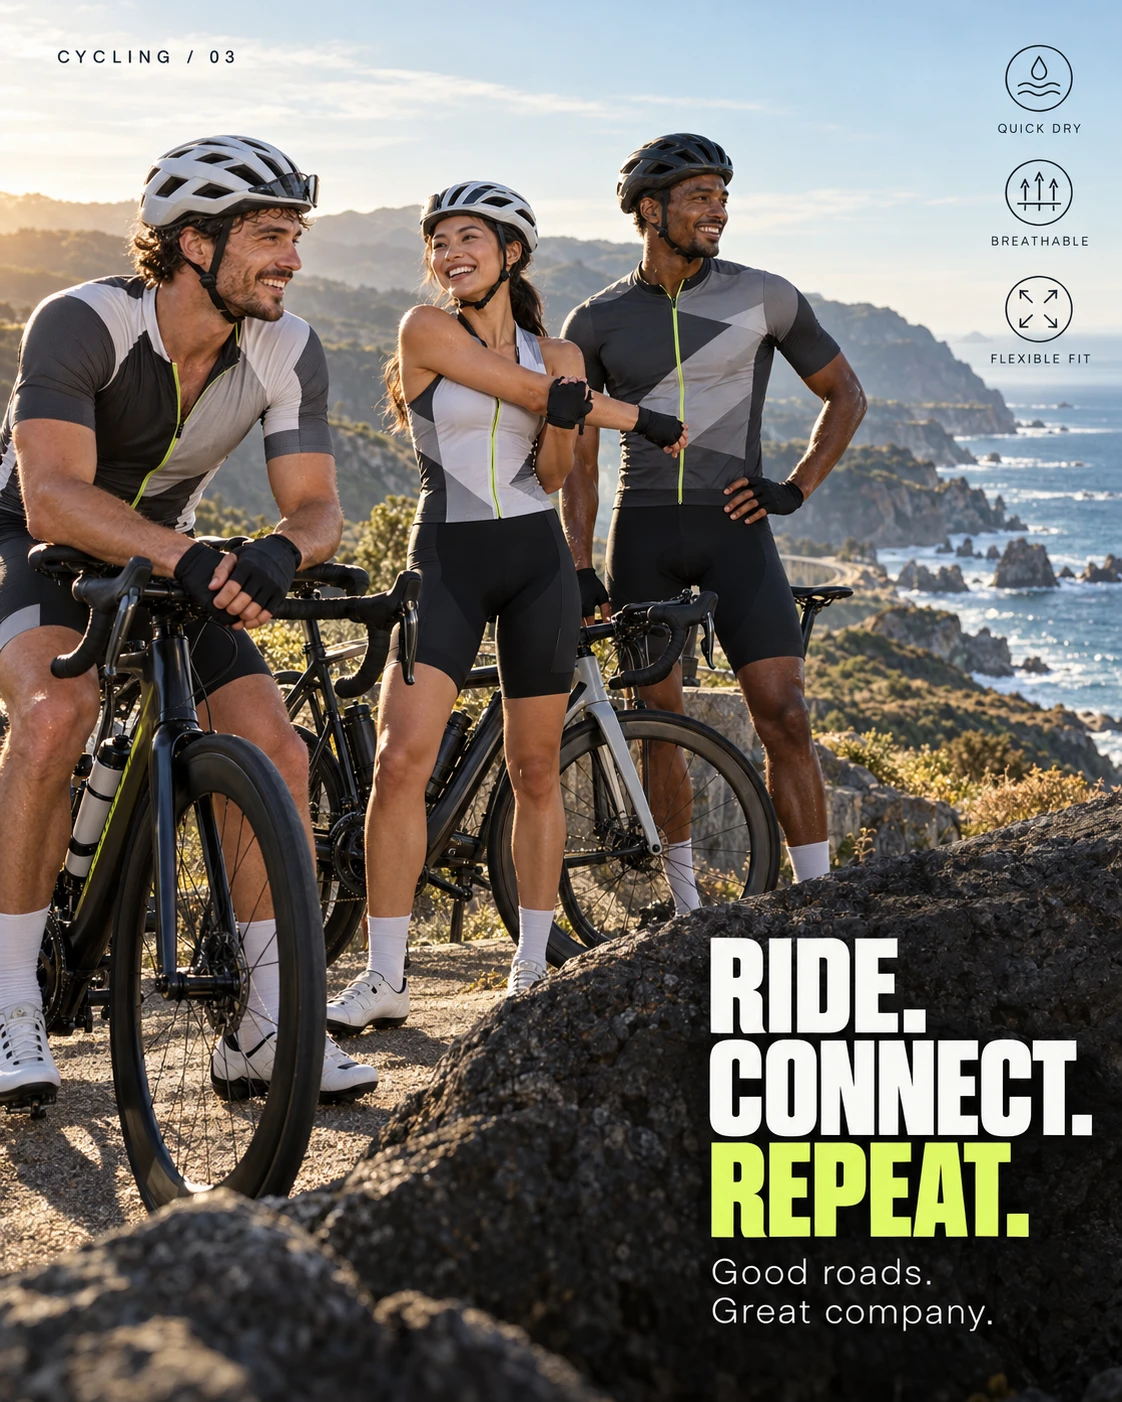
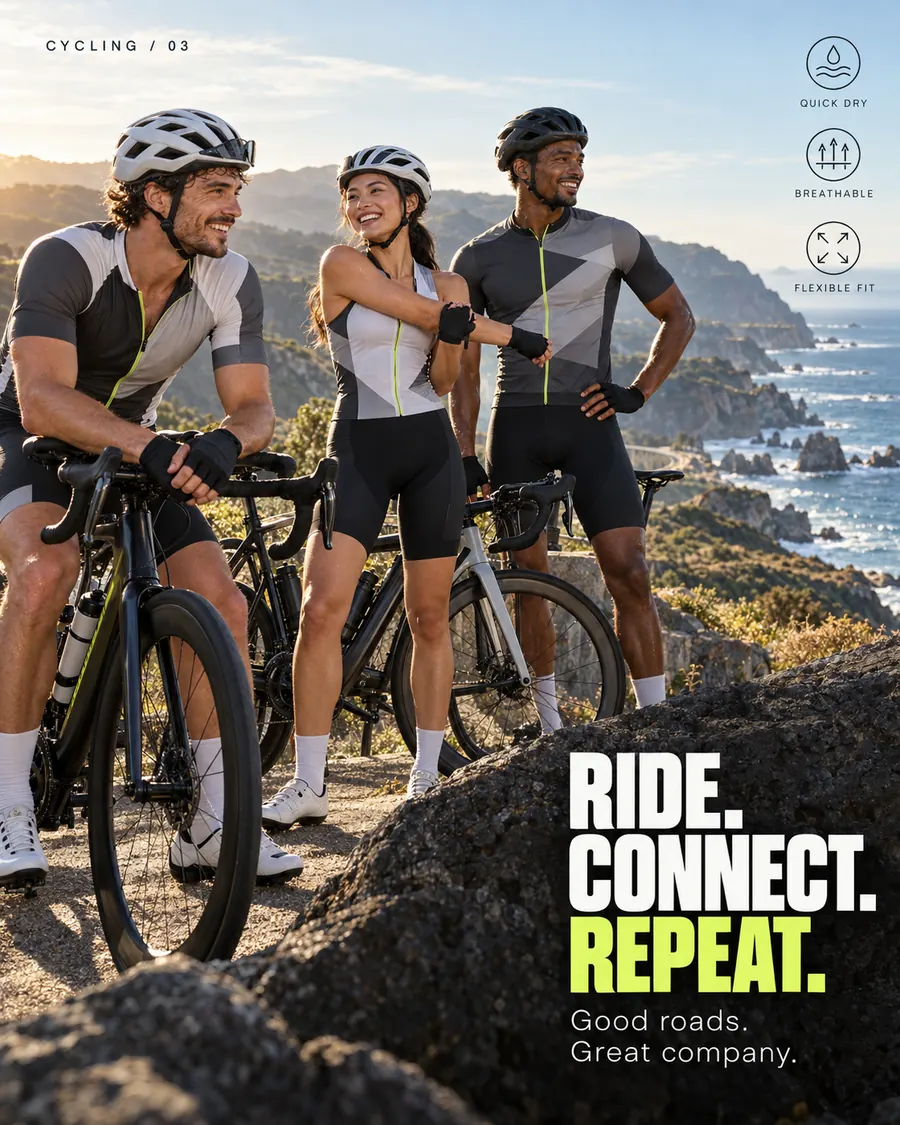
Compress responsive sportswear WebP images and show gallery immediately without visible captions

diff --git a/sportswear-concepts.html b/sportswear-concepts.html
@@ -1,14 +1,10 @@
-<!doctype html><html lang="zh-Hant"><head><meta charset="utf-8"><meta name="viewport" content="width=device-width, initial-scale=1"><title>運動服飾品牌廣告概念｜Pamela Creative Studio</title><meta name="description" content="運動服飾品牌廣告概念作品，透過滑鼠拖曳、手指滑動或左右箭頭翻閱海報。"><link rel="canonical" href="https://pamela72.com/sportswear-concepts.html"><link rel="icon" href="assets/icons/logo.svg" type="image/svg+xml"><script>document.documentElement.classList.add("has-js","is-loading")</script><link rel="stylesheet" href="css/style.css?v=20261010-cats-brand"><script src="js/main.js?v=20261013-brand-advertising" defer></script><link rel="stylesheet" href="css/sportswear.css?v=20261013"><script src="js/sportswear.js?v=20261013" defer></script></head><body><div class="loading-screen" role="status" aria-live="polite">
-      <div class="loading-screen__brand">Pamela Creative Studio</div>
-      <p class="loading-screen__message">載入中，請稍等...</p>
-      <img class="loading-screen__cat" src="assets/images/ui/loading-cat.gif?v=20261010" alt="" width="135" height="135">
-    </div><div data-site-header></div><main><section class="project-gallery page-shell" aria-labelledby="project-title"><h1 id="project-title" class="sr-only">運動服飾品牌廣告概念</h1><div class="concept-viewer" role="region" aria-roledescription="輪播" aria-label="運動服飾廣告概念作品" tabindex="0"><div class="concept-stage"><button class="concept-card" type="button" data-index="0" aria-label="查看疾行向前的專業跑步機能服"><img src="assets/images/sportswear/concept-01.webp" alt="疾行向前的專業跑步機能服" width="1122" height="1402" draggable="false"></button>
-<button class="concept-card" type="button" data-index="1" aria-label="查看對稱銀灰拼接運動短褲"><img src="assets/images/sportswear/concept-02.webp" alt="對稱銀灰拼接運動短褲" width="1122" height="1402" draggable="false"></button>
-<button class="concept-card" type="button" data-index="2" aria-label="查看晨曦樹式瑜伽"><img src="assets/images/sportswear/concept-03.webp" alt="晨曦樹式瑜伽" width="1122" height="1402" draggable="false"></button>
-<button class="concept-card" type="button" data-index="3" aria-label="查看暮光網球場的雙打活力"><img src="assets/images/sportswear/concept-04.webp" alt="暮光網球場的雙打活力" width="1122" height="1402" draggable="false"></button>
-<button class="concept-card" type="button" data-index="4" aria-label="查看海岸騎行，型格同行"><img src="assets/images/sportswear/concept-05.webp" alt="海岸騎行，型格同行" width="1122" height="1402" draggable="false"></button>
-<button class="concept-card" type="button" data-index="5" aria-label="查看孔雀藍三鐵夕陽海報"><img src="assets/images/sportswear/concept-06.webp" alt="孔雀藍三鐵夕陽海報" width="1122" height="1402" draggable="false"></button>
-<button class="concept-card" type="button" data-index="6" aria-label="查看拳擊時尚力量海報"><img src="assets/images/sportswear/concept-07.webp" alt="拳擊時尚力量海報" width="1122" height="1402" draggable="false"></button>
-<button class="concept-card" type="button" data-index="7" aria-label="查看柔道中的力量與尊重"><img src="assets/images/sportswear/concept-08.webp" alt="柔道中的力量與尊重" width="1122" height="1402" draggable="false"></button>
-<button class="concept-card" type="button" data-index="8" aria-label="查看夕陽獵鷹短袖棒球海報"><img src="assets/images/sportswear/concept-09.webp" alt="夕陽獵鷹短袖棒球海報" width="1122" height="1402" draggable="false"></button>
-<button class="concept-card" type="button" data-index="9" aria-label="查看樂齡夫妻漫步山徑"><img src="assets/images/sportswear/concept-10.webp" alt="樂齡夫妻漫步山徑" width="1122" height="1402" draggable="false"></button></div><button class="concept-arrow concept-prev" type="button" aria-label="上一張作品">‹</button><button class="concept-arrow concept-next" type="button" aria-label="下一張作品">›</button></div><div class="concept-caption" aria-live="polite" aria-atomic="true"><span class="concept-count"></span><span class="concept-title"></span></div><div class="concept-dots" aria-label="選擇作品"></div><p class="concept-hint">滑鼠左右拖曳・手指左右滑動・點選箭頭翻閱</p></section></main><div data-site-footer></div></body></html>
[10 lines of base64/hex data omitted]

diff --git a/css/sportswear.css b/css/sportswear.css
@@ -3,17 +3,17 @@
 .concept-stage{position:relative;width:100%;height:clamp(340px,49vw,650px);perspective:1400px}
 .concept-card{position:absolute;top:50%;left:50%;width:min(43%,450px);padding:0;border:0;background:transparent;transform:translate(-50%,-50%) translateX(var(--x)) scale(var(--scale)) rotateY(var(--angle));opacity:var(--opacity);z-index:var(--z);transition:transform .45s ease,opacity .45s ease;cursor:pointer;box-shadow:0 14px 34px #0003;visibility:visible}
 .concept-card[hidden]{display:none}
+.concept-card{background-size:cover;background-position:center;aspect-ratio:1122/1402}
 .concept-card img{display:block;width:100%;height:auto;pointer-events:none}
 .concept-card:focus-visible{outline:3px solid #78716b;outline-offset:4px}
 .concept-arrow{position:absolute;top:50%;transform:translateY(-50%);z-index:12;width:44px;height:56px;border:0;border-radius:8px;background:#ffffffd9;color:#686460;font:48px/1 Arial,sans-serif;cursor:pointer}
 .concept-arrow:hover{background:#fff;color:#222}
 .concept-prev{left:16px}.concept-next{right:16px}
-.concept-caption{display:flex;justify-content:center;align-items:center;gap:16px;margin:20px 0 12px;font-size:14px;color:#555;min-height:24px}
-.concept-count{font-variant-numeric:tabular-nums;color:#888;white-space:nowrap}
-.concept-dots{display:flex;flex-wrap:wrap;justify-content:center;gap:4px}
+
+.concept-dots{margin-top:18px;display:flex;flex-wrap:wrap;justify-content:center;gap:4px}
 .concept-dot{border:0;padding:10px;background:transparent;cursor:pointer}
 .concept-dot::after{content:"";display:block;width:7px;height:7px;border-radius:50%;background:#d2ceca}
 .concept-dot[aria-current="true"]::after{background:#514b46}
 .concept-hint{text-align:center;font-size:12px;color:#999;margin:8px 0 0}
-@media(max-width:600px){.concept-stage{height:clamp(340px,98vw,540px)}.concept-card{width:65%}.concept-arrow{width:30px;height:46px;font-size:38px}.concept-prev{left:5px}.concept-next{right:5px}.concept-caption{gap:10px;font-size:12px}.concept-hint{font-size:11px}.concept-viewer{border-radius:10px}}
+@media(max-width:600px){.concept-stage{height:clamp(340px,98vw,540px)}.concept-card{width:65%}.concept-arrow{width:30px;height:46px;font-size:38px}.concept-prev{left:5px}.concept-next{right:5px}.concept-hint{font-size:11px}.concept-viewer{border-radius:10px}}
 @media(prefers-reduced-motion:reduce){.concept-card{transition:none}}

diff --git a/js/sportswear.js b/js/sportswear.js
@@ -12,6 +12,8 @@
    if(distance>cards.length/2) distance-=cards.length;
    const abs=Math.abs(distance);
    card.hidden=abs>2;
+   if(abs<=2) card.querySelector("img").loading="eager";
+   card.querySelector("img").fetchPriority=abs===0?"high":"low";
    card.style.setProperty('--x',`${distance*43}%`);
    card.style.setProperty('--scale',String(1-abs*.14));
    card.style.setProperty('--angle',`${distance*-12}deg`);
